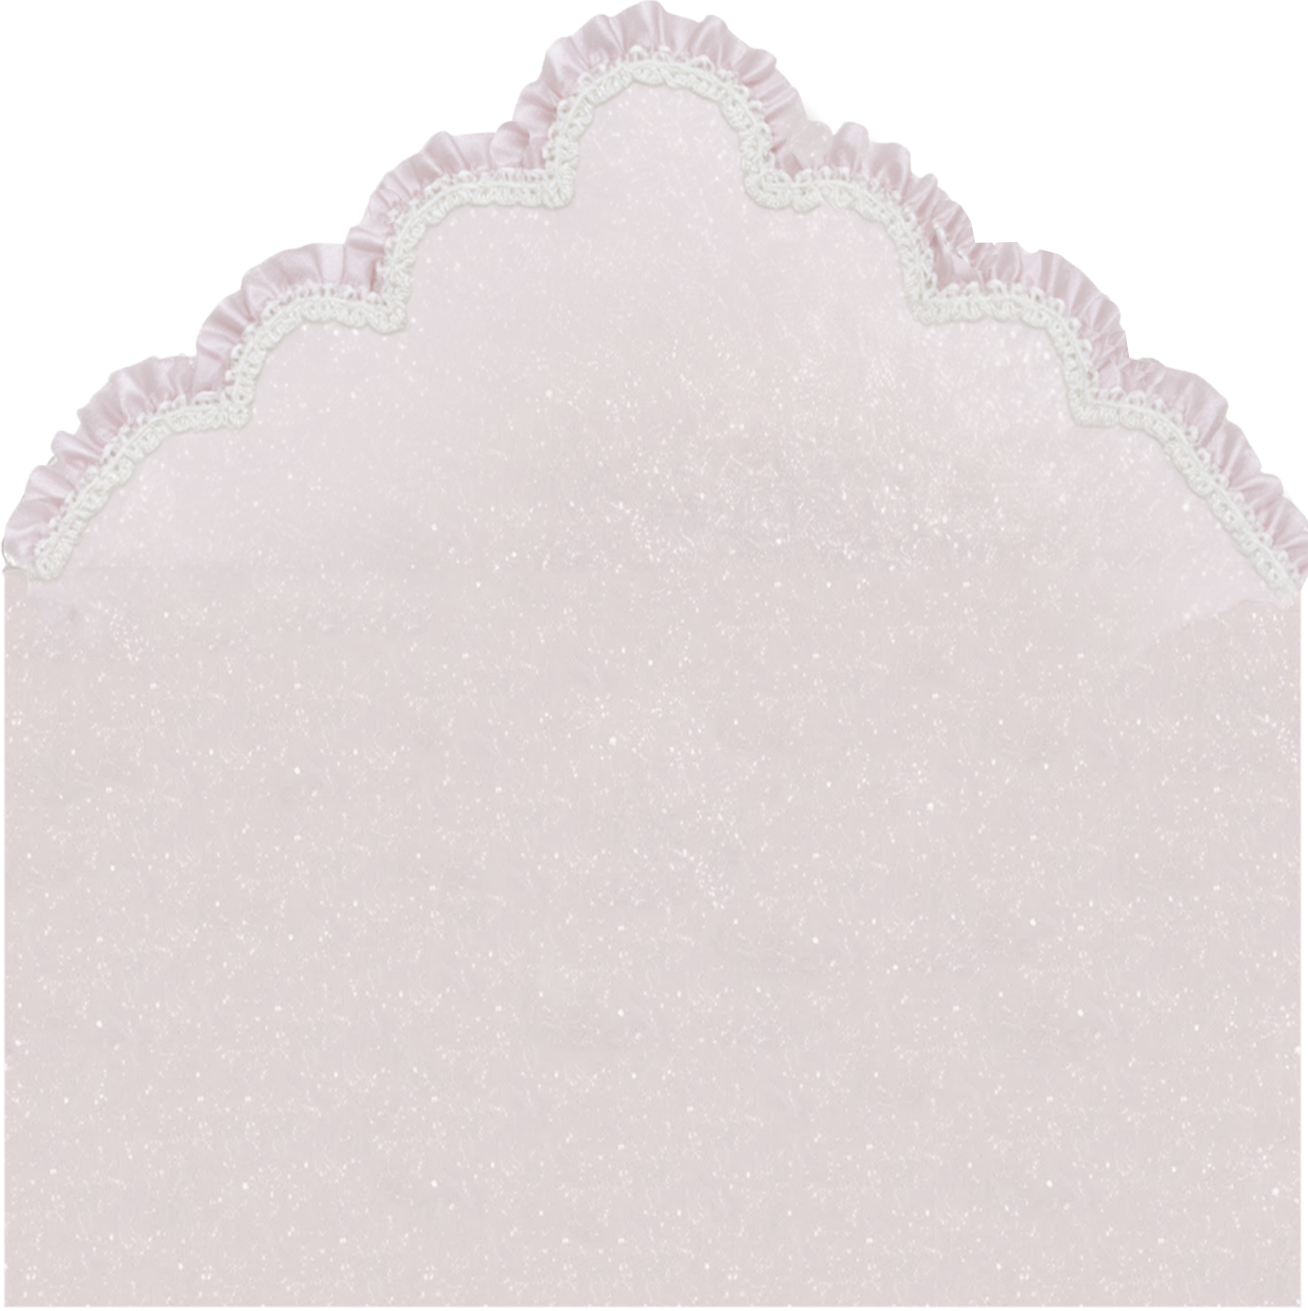
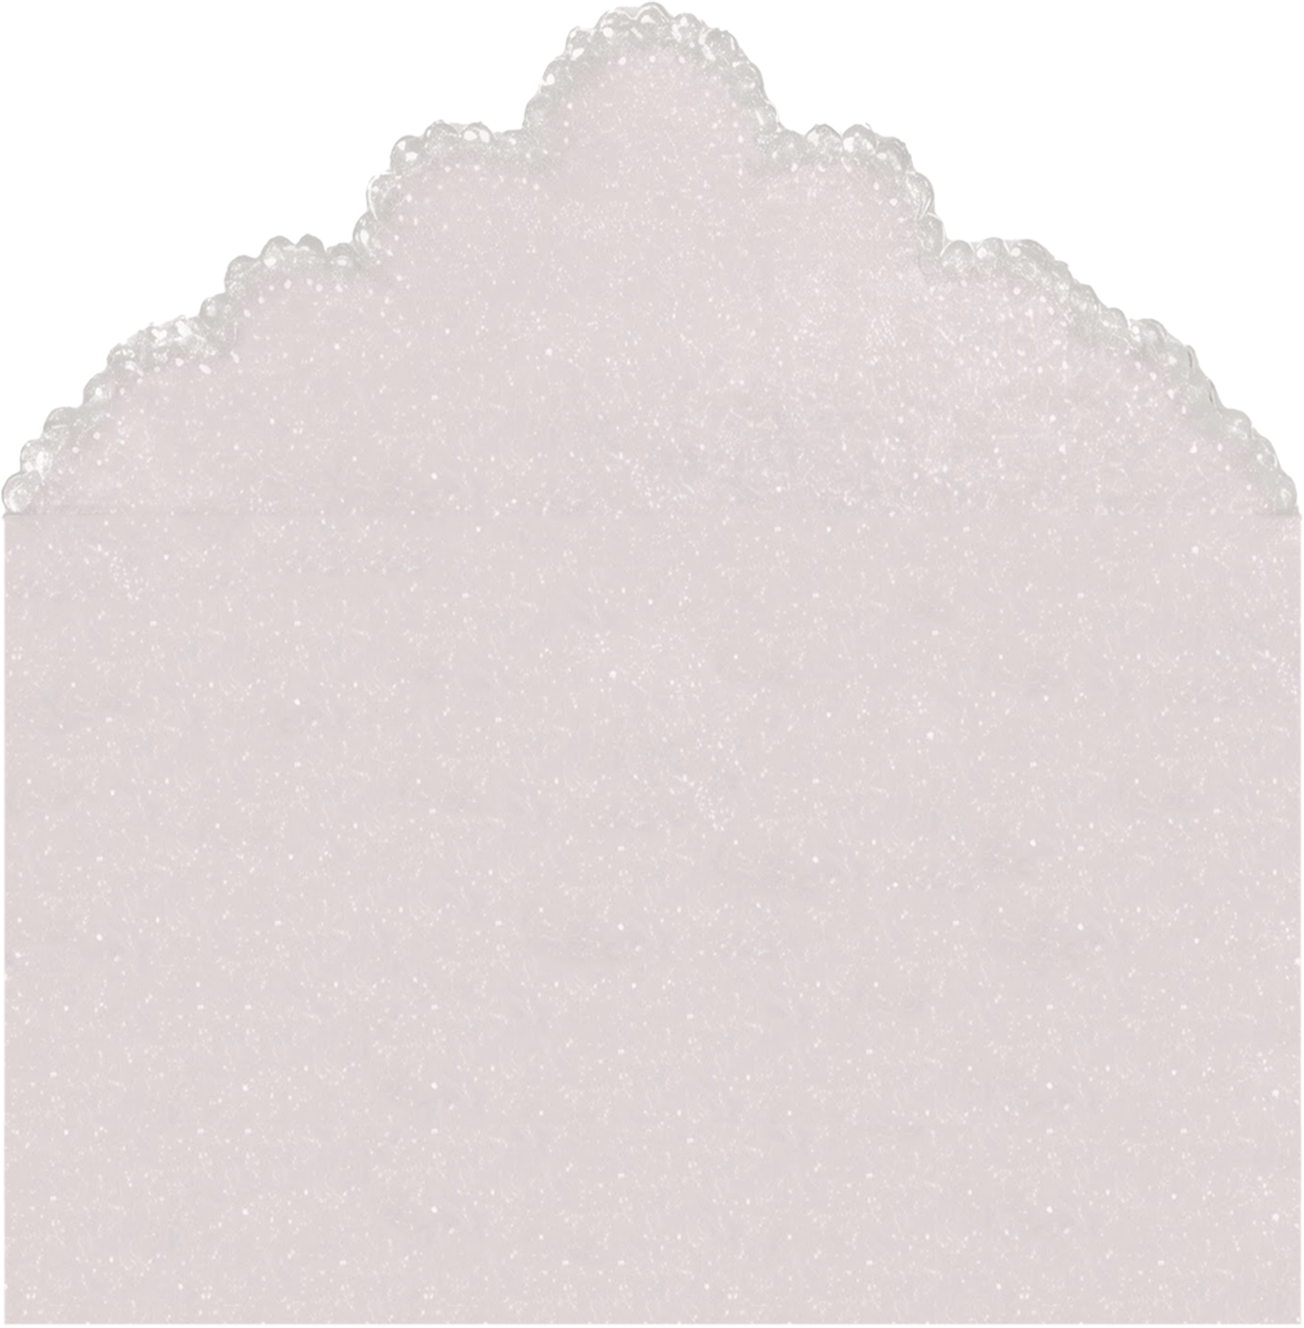
Restore original envelope artwork for selected option

Changed region(s): [[0.0, 0.0, 1.0, 1.0]]

diff --git a/README.md b/README.md
@@ -9,12 +9,17 @@ Design by rawpetal studio.
 - `v3` — alt.3 envelope, letter card, headline, and body copy
 - `v4` — alt.4 artwork with the updated Chérie Lou body-copy lettering
 - `v5` — final envelope and two approved lettering-size options
+- `v6` — client-selected Option 02 with the original flower-free envelope texture
 
 The `v5` shared artwork uses `envelope-back.webp`, `envelope-front.webp`,
 `letter-card.webp`, and the Submit/Close files. Choose
 `headline-small.webp` + `letter-text-small.webp` for the larger-title
 version, or `headline-large.webp` + `letter-text-large.webp` for the
 larger-body-text version.
+
+The `v6` artwork restores the original flower-free `envelope-back.webp`,
+`envelope-front.webp`, and `letter-card.webp`. The corrected Option 02 body
+copy is rendered as live HTML text in the delivered popup files.
 
 Web pages should use the tagged jsDelivr URLs so published artwork does not
 change when newer versions are added.
